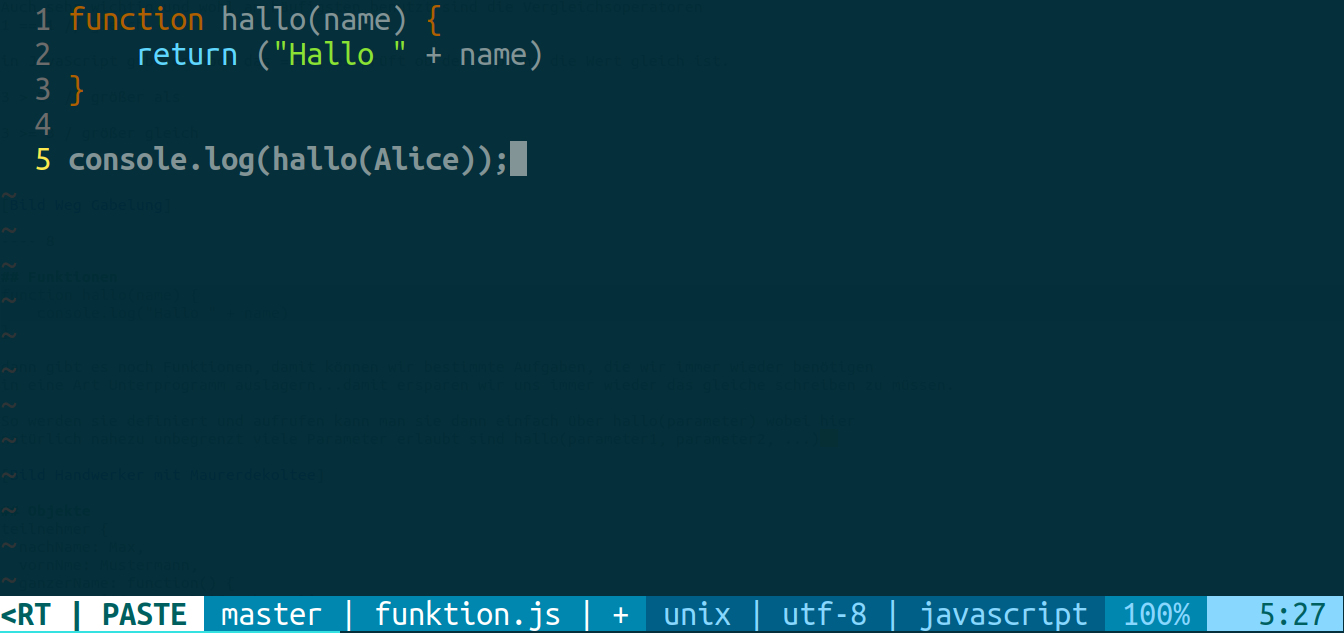
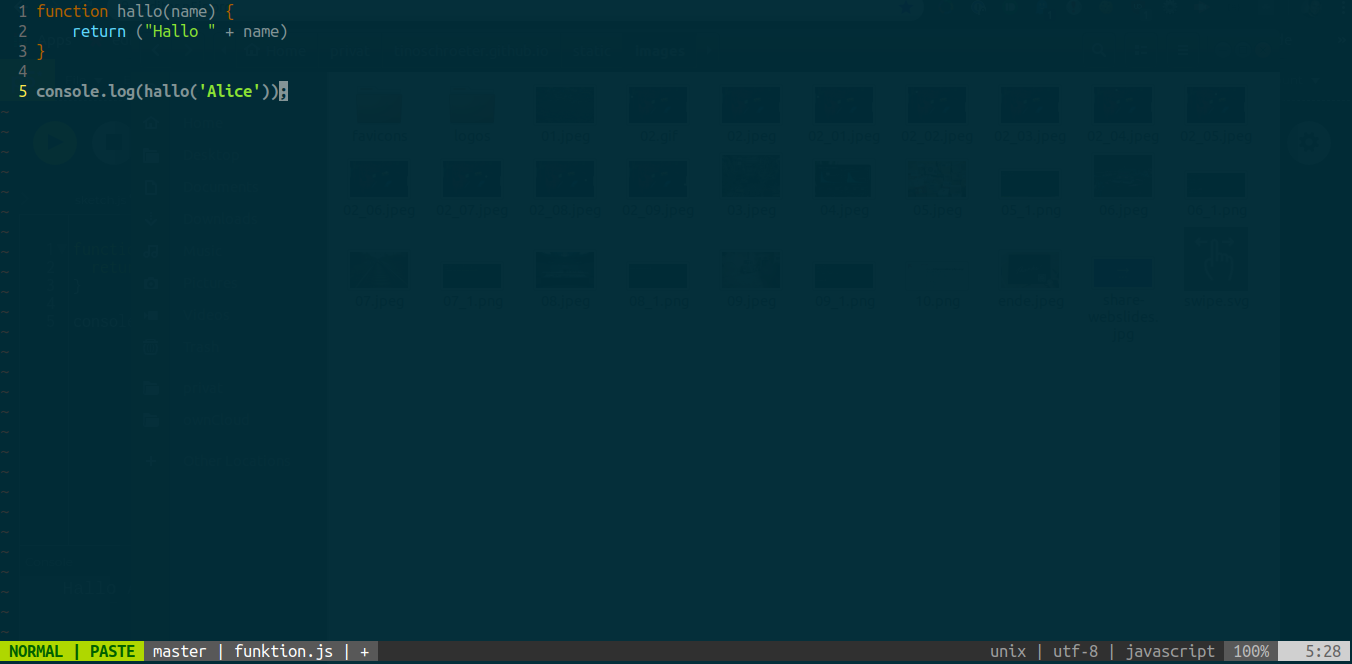
update funktins

Changed region(s): [[0.0, 0.9305, 1.0, 1.0], [0.0, 0.0, 0.4062, 0.2101], [0.0312, 0.2101, 0.4062, 0.3002]]

diff --git a/example/funktion.js b/example/funktion.js
@@ -2,4 +2,4 @@ function hallo(name) {
     return ("Hallo " + name)
 }
 
-console.log(hallo(Alice));
+console.log(hallo('Alice'));
